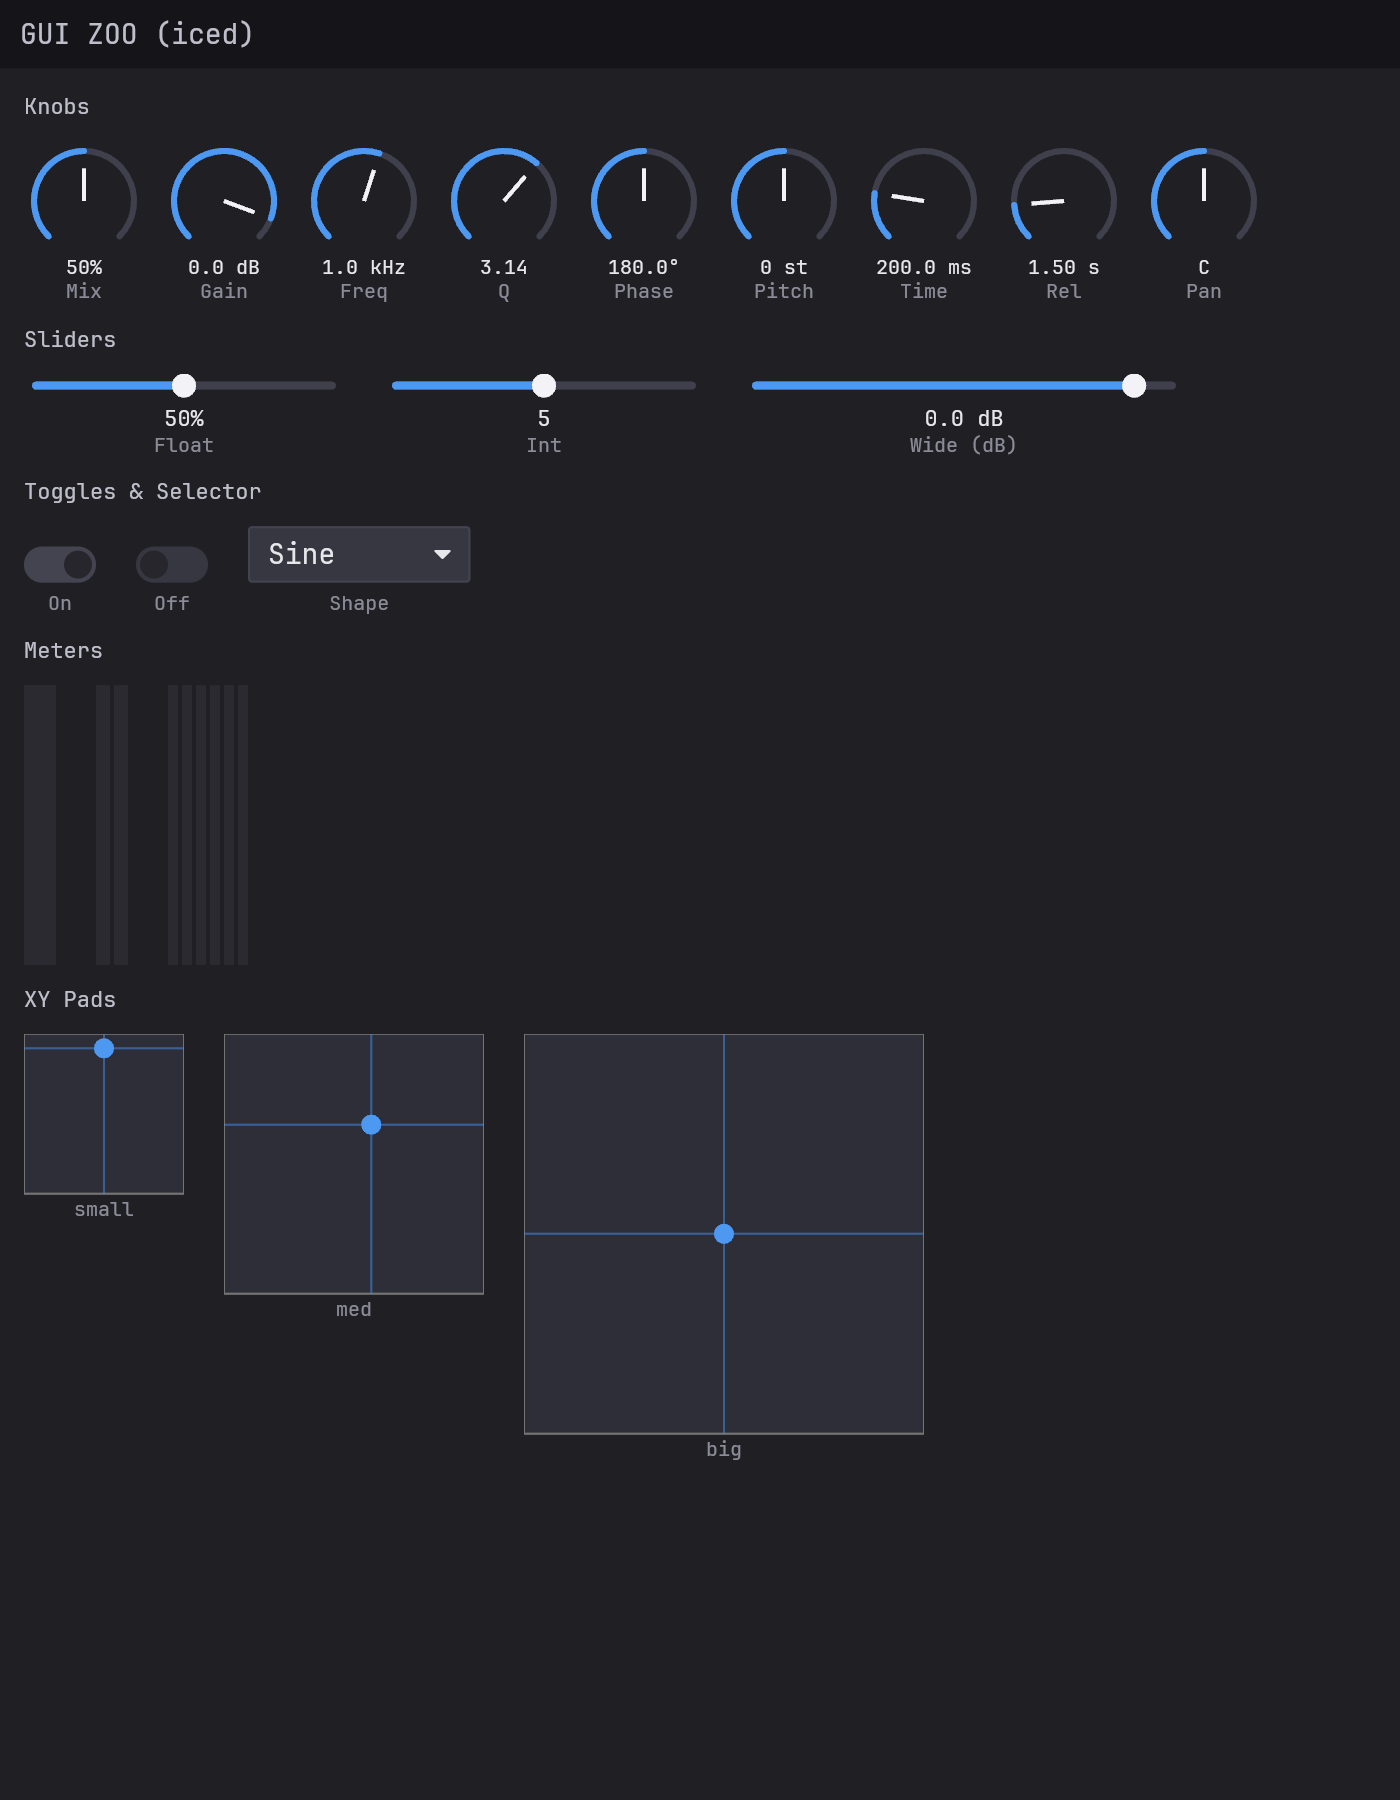
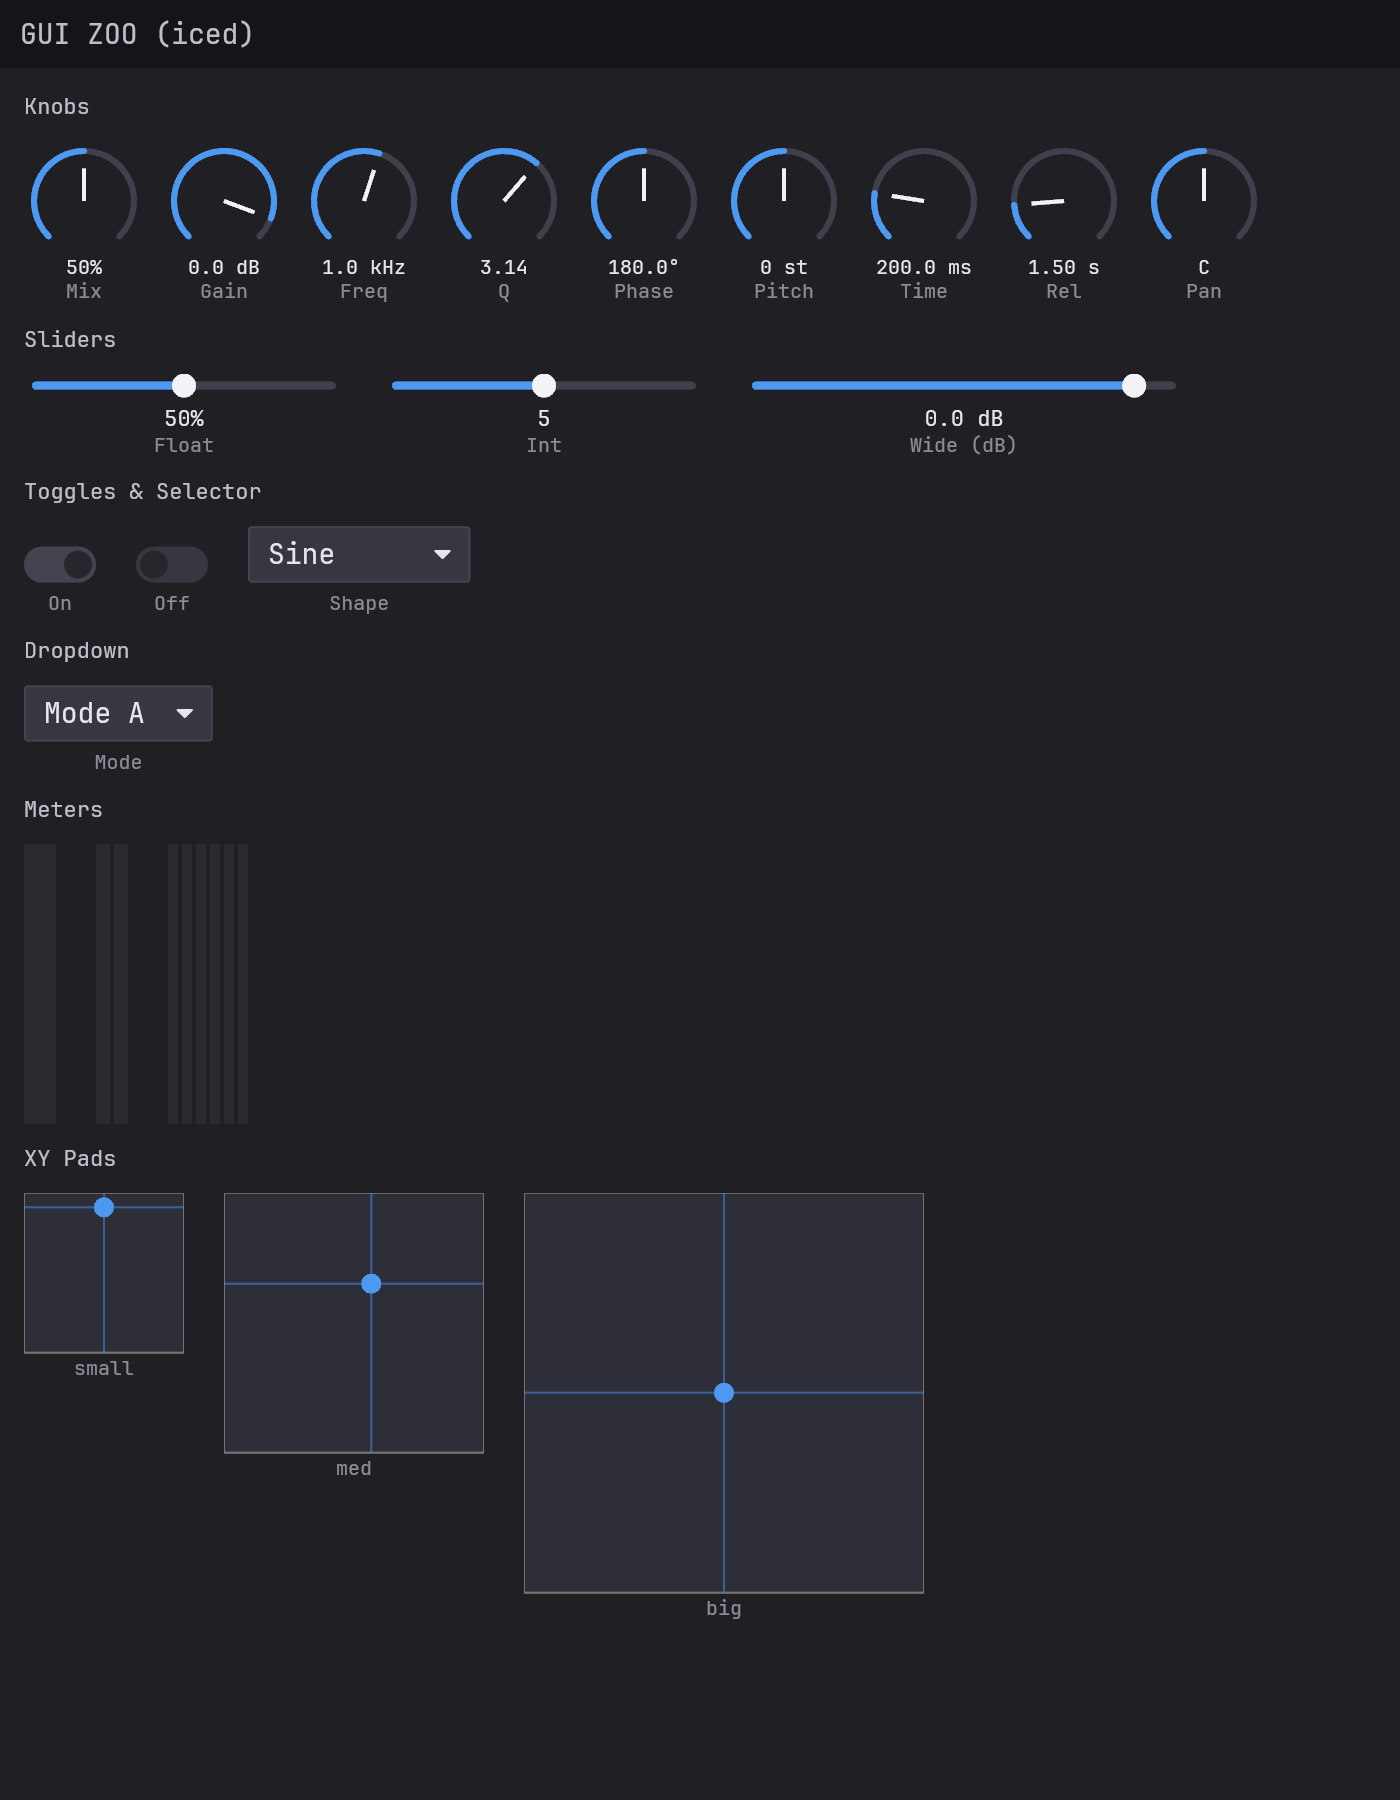
Add dropdown section to iced gui zoo (alias for selector, both are dropdowns in iced)

diff --git a/examples/truce-example-gui-zoo-iced/src/lib.rs b/examples/truce-example-gui-zoo-iced/src/lib.rs
@@ -1,8 +1,7 @@
 //! iced counterpart of `truce-example-gui-zoo`. Same param shapes
 //! (so every unit / range / discrete-snap path is exercised) but
 //! laid out through iced's containers instead of the built-in
-//! `GridLayout`. `truce-iced` aliases `param_dropdown` to
-//! `param_selector` today, so the zoo's selector row covers both.
+//! `GridLayout`.
 
 // Same iOS gate as `truce-example-gain-iced`: iced's `iced_winit`
 // dep doesn't build for iOS.
@@ -24,8 +23,8 @@ const HEADER_TEXT: iced::Color = iced::Color::from_rgb(0.75, 0.75, 0.80);
 
 use truce::prelude::*;
 use truce_iced::{
-    IcedEditor, IcedPlugin, IntoElement, Message, ParamCache, knob, meter, param_selector,
-    param_slider, param_toggle, xy_pad,
+    IcedEditor, IcedPlugin, IntoElement, Message, ParamCache, knob, meter, param_dropdown,
+    param_selector, param_slider, param_toggle, xy_pad,
 };
 
 use ZooParamsParamId as P;
@@ -36,6 +35,26 @@ pub enum Shape {
     Triangle,
     Square,
     Sawtooth,
+}
+
+#[derive(ParamEnum)]
+pub enum Mode {
+    #[name = "Mode A"]
+    A,
+    #[name = "Mode B"]
+    B,
+    #[name = "Mode C"]
+    C,
+    #[name = "Mode D"]
+    D,
+    #[name = "Mode E"]
+    E,
+    #[name = "Mode F"]
+    F,
+    #[name = "Mode G"]
+    G,
+    #[name = "Mode H"]
+    H,
 }
 
 #[derive(Params)]
@@ -77,6 +96,10 @@ pub struct ZooParams {
     // -- Selector --
     #[param(name = "Shape")]
     pub shape: EnumParam<Shape>,
+
+    // -- Dropdown --
+    #[param(name = "Mode")]
+    pub mode: EnumParam<Mode>,
 
     // -- Meters: single, stereo pair, 6-channel bus --
     #[meter]
@@ -171,6 +194,16 @@ impl IcedPlugin<ZooParams> for ZooUi {
             .align_y(alignment::Vertical::Bottom)
             .into();
 
+        // `param_dropdown` is an alias for `param_selector` in
+        // `truce-iced`, so this renders identically to the selector
+        // above - the section demonstrates the API surface for
+        // plugin authors writing against the egui / CPU shape.
+        let dropdown_row: Element<'a, Message<ZooMsg>> = Row::new()
+            .push(param_dropdown(P::Mode, params).label("Mode").el())
+            .spacing(20.0)
+            .align_y(alignment::Vertical::Bottom)
+            .into();
+
         let meters_row: Element<'a, Message<ZooMsg>> = Row::new()
             .push(meter(&[P::MIn], params).size(16.0, 140.0).el())
             .push(meter(&[P::ML, P::MR], params).size(16.0, 140.0).el())
@@ -213,6 +246,8 @@ impl IcedPlugin<ZooParams> for ZooUi {
             .push(sliders_row)
             .push(section_label("Toggles & Selector"))
             .push(toggles_row)
+            .push(section_label("Dropdown"))
+            .push(dropdown_row)
             .push(section_label("Meters"))
             .push(meters_row)
             .push(section_label("XY Pads"))